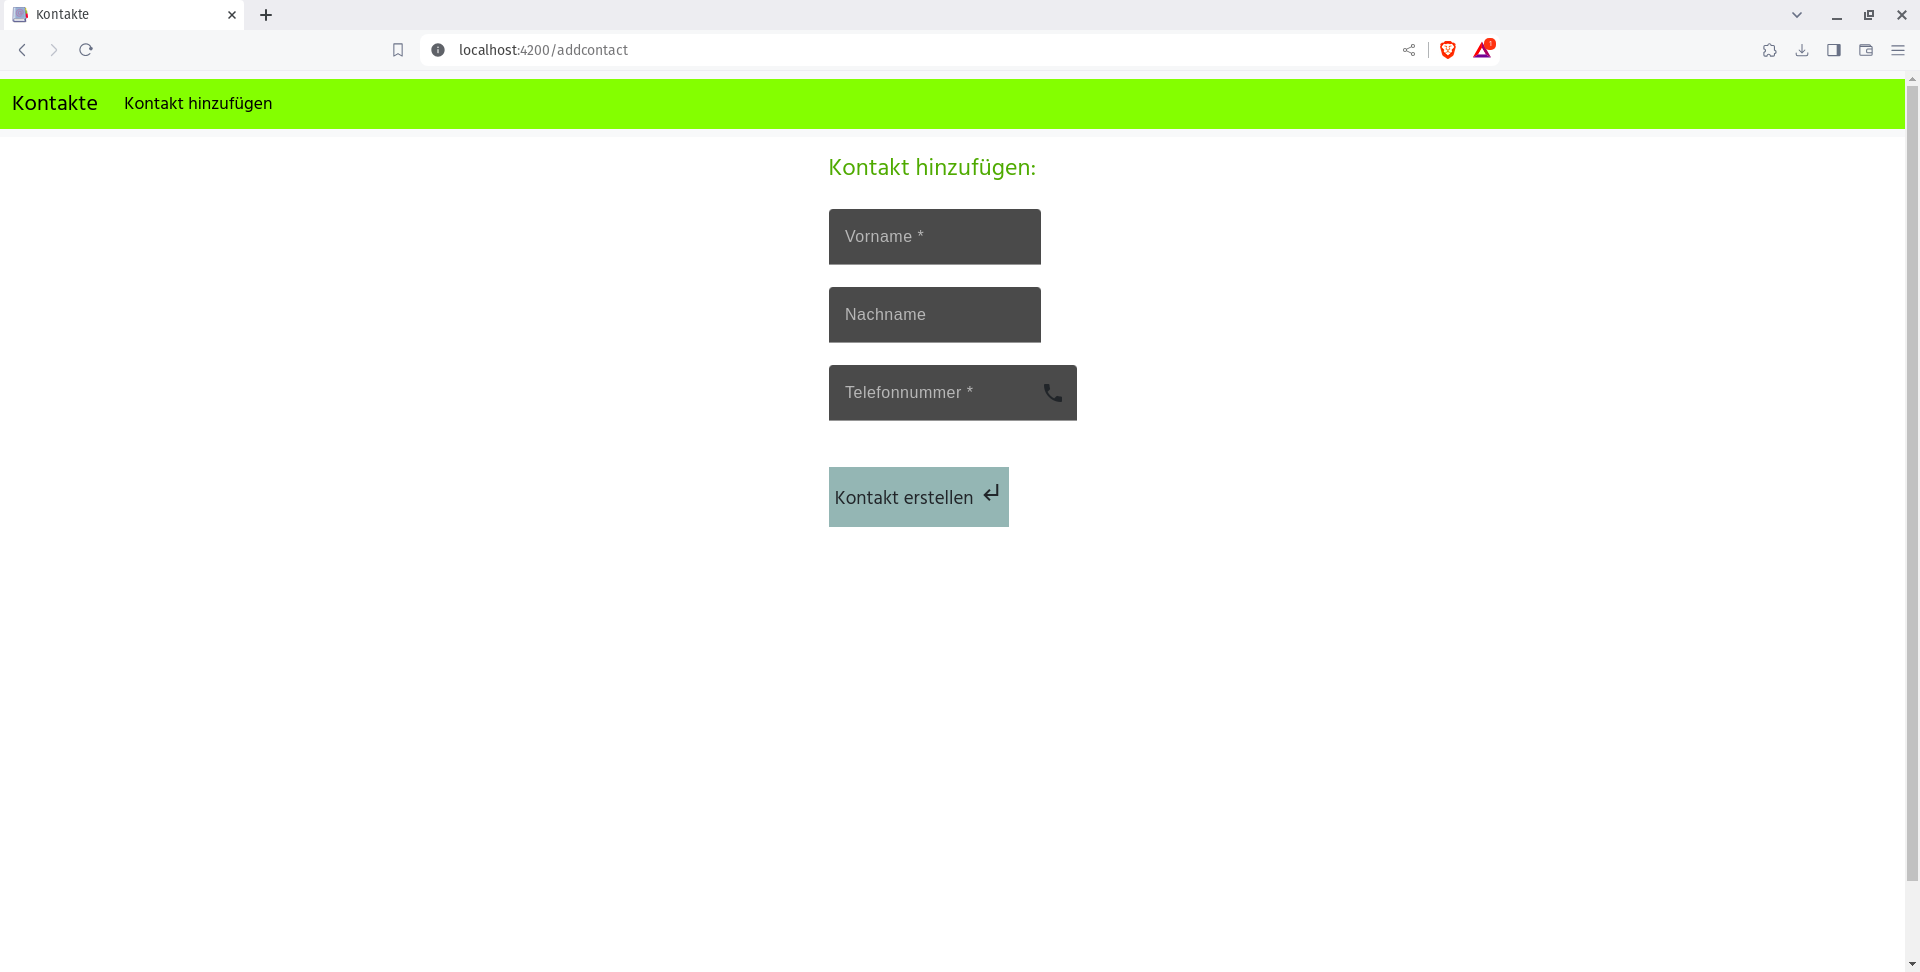
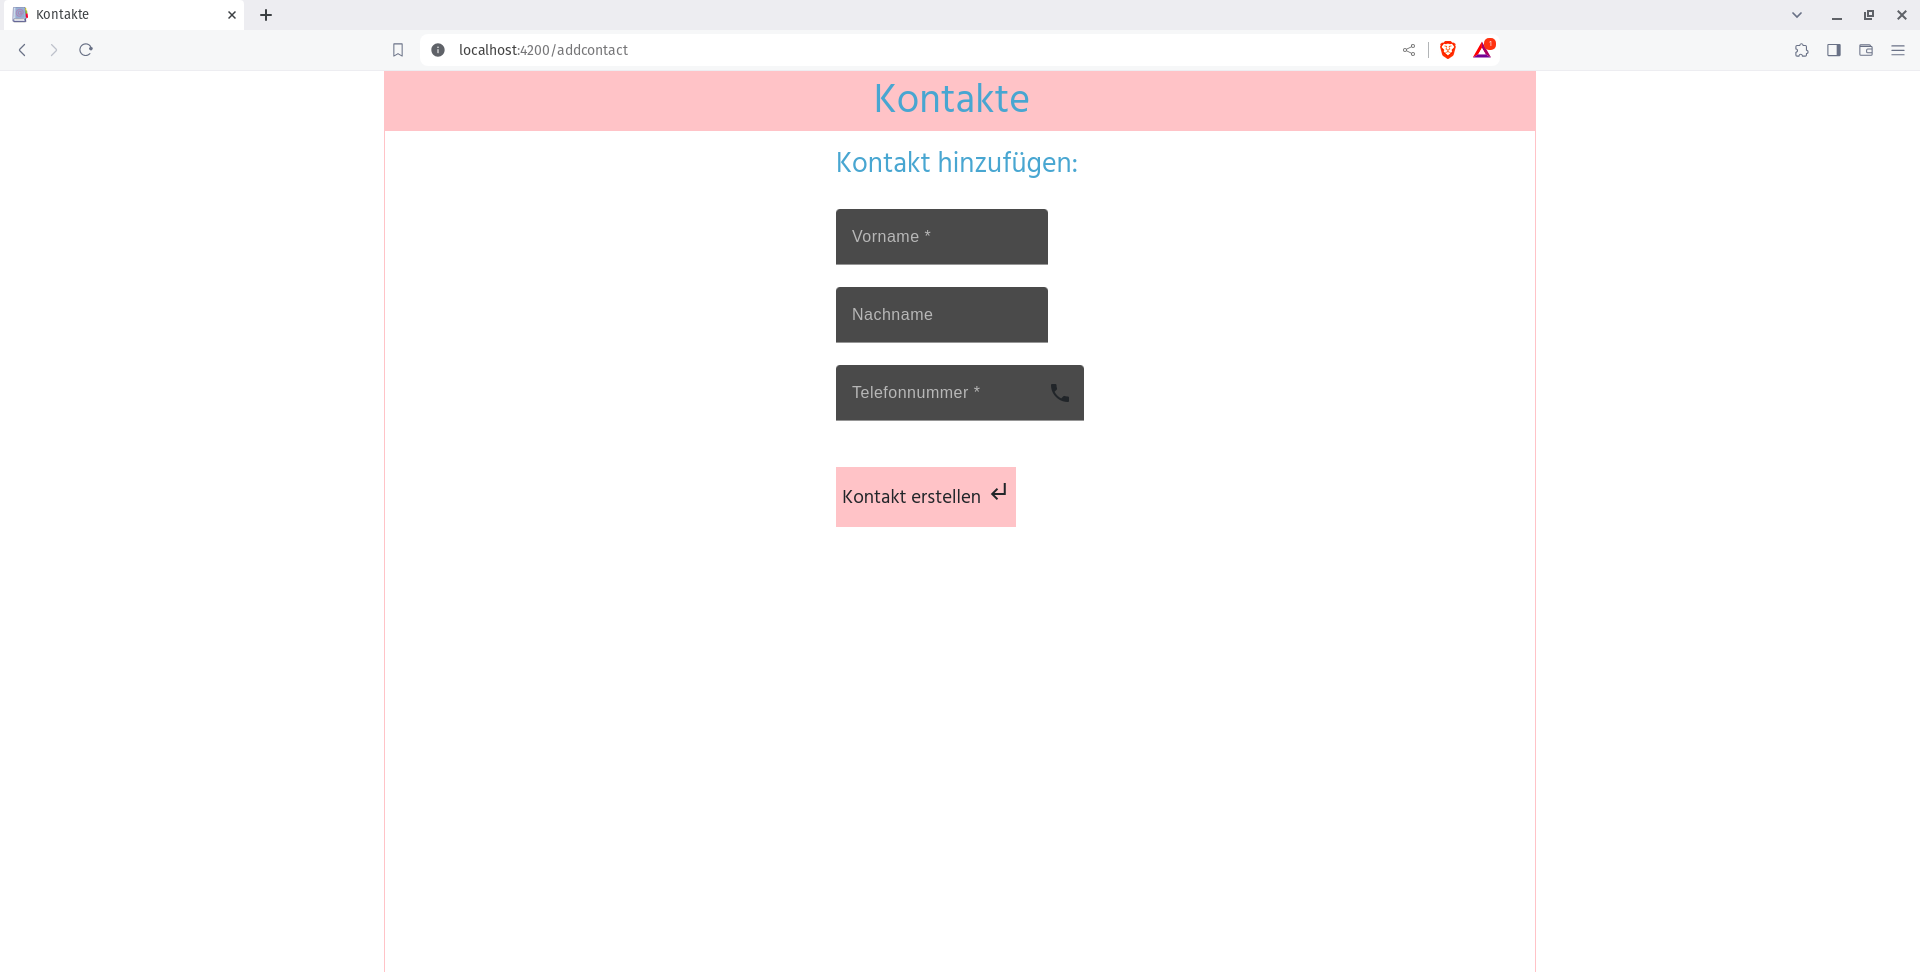
update

diff --git a/src/app/components/contact-list/contact-list.component.html b/src/app/components/contact-list/contact-list.component.html
@@ -1,14 +1,15 @@
 <div class="flex">
     <table>
         <thead>
-        <tr>
-            <th class="mat-th"><mat-icon> contacts
-                </mat-icon>
-              </th> <th> Name</th>
-            <th>Tel.</th>
-            <th style="width: 50px;"></th>
-        </tr>
-    </thead>
+            <tr>
+                <th class="mat-th"><mat-icon> contacts
+                    </mat-icon>
+                </th>
+                <th> Name</th>
+                <th>Tel.</th>
+                <th style="width: 50px;"></th>
+            </tr>
+        </thead>
         <tr *ngFor="let contact of contacts">
             <td class="mat-th"><mat-icon>account_box</mat-icon></td>
             <td>

diff --git a/src/app/components/contact-list/contact-list.component.scss b/src/app/components/contact-list/contact-list.component.scss
@@ -26,30 +26,19 @@ tr {
 
 }
 
-mat-icon {
-    padding: 0;
-    margin: 0;
-}
 
 
 table {
     font-size: 19px;
-    max-width: 90%;
     margin-top: 80px;
     border: 1px solid rgb(255, 200, 200, 1);
     background-color: rgb(255, 255, 255);
-    width: 800px;
+    width: 60%;
     font-family: 'Hind Guntur', sans-serif;
 
 }
 
 
-
-body {
-    max-width: 90%;
-    display: flex;
-    justify-content: center;
-}
 
 .deleteIcon {
     color: #f33e3ef3;

diff --git a/src/app/components/add-contact/add-contact.component.html b/src/app/components/add-contact/add-contact.component.html
@@ -1,5 +1,4 @@
-<body>
-    <div class="block">
+    <div class="body"><div class="block">
         <h2>Kontakt hinzufügen:</h2>
         <br>
         <p>
@@ -26,4 +25,4 @@
         <button (click)="AddNewContact();">Kontakt erstellen <mat-icon>subdirectory_arrow_left</mat-icon>
         </button>
     </div>
-</body>
+</div>

diff --git a/src/app/app.component.scss b/src/app/app.component.scss
@@ -1,6 +1,6 @@
 .app-div{
-    margin-right: 40vh;
-    margin-left: 40vh;
+    margin-right: 20%;
+    margin-left: 20%;
     height: 100%;
     border-right: 1px solid rgb(255, 200, 200, 1);;
     border-left: 1px solid rgb(255, 200, 200, 1);;

diff --git a/src/app/components/add-contact/add-contact.component.scss b/src/app/components/add-contact/add-contact.component.scss
@@ -1,4 +1,4 @@
-body {
+.body {
     display: flex;
     justify-content: center;
     margin-top: 20px;
